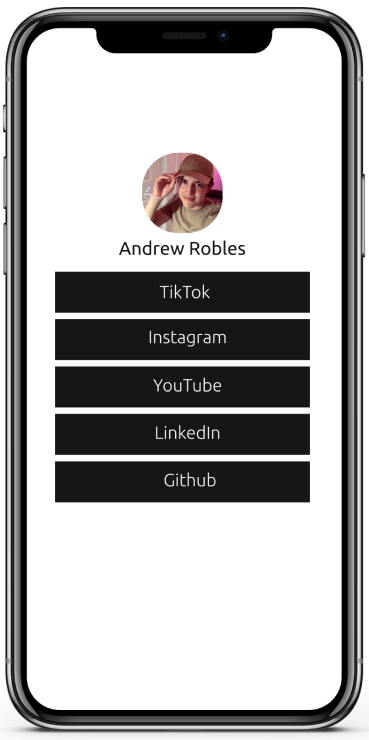
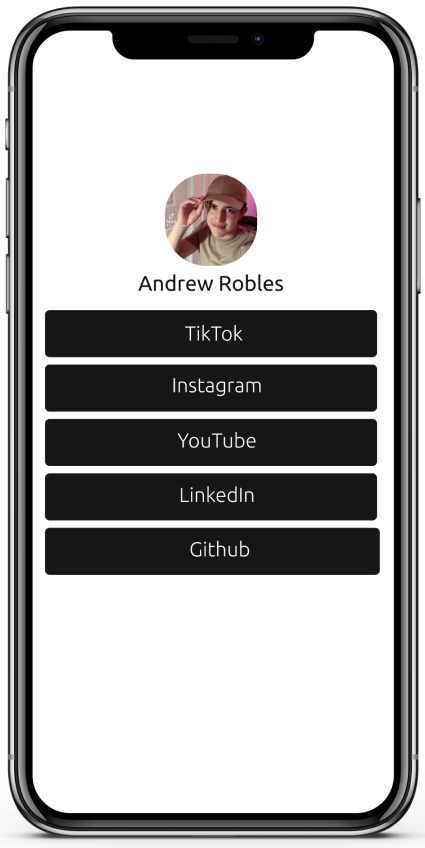
Landing page looks good on desktop

Changed region(s): [[0.0, 0.0311, 0.9241, 0.9946], [0.0894, 0.0, 1.0, 0.9324], [0.2683, 0.0622, 0.7154, 0.0932]]

diff --git a/components/Landing/Landing.js b/components/Landing/Landing.js
@@ -15,7 +15,7 @@ export default function Landing() {
         <div className="row justify-content-center">
           <Summary />
         </div>
-        <div className="row jusity-content-center">
+        <div className="row justify-content-center p-2">
           <Button />
         </div>
       </div>

diff --git a/components/Button/Button.module.css b/components/Button/Button.module.css
@@ -5,4 +5,11 @@
     font-weight: 300;
     font-size: 22px;
     background-color: #161616;
+    max-width: 350px;
+}
+
+@media (max-width: 400px) {
+    .Button {
+        max-width: none;
+    }
 }

diff --git a/components/Logo/Logo.module.css b/components/Logo/Logo.module.css
@@ -3,5 +3,5 @@
 .Logo {
     font-family: 'Josefin Sans', sans-serif;
     color: #FF4200;
-    font-size: 57px;
+    font-size: 50px;
 }
